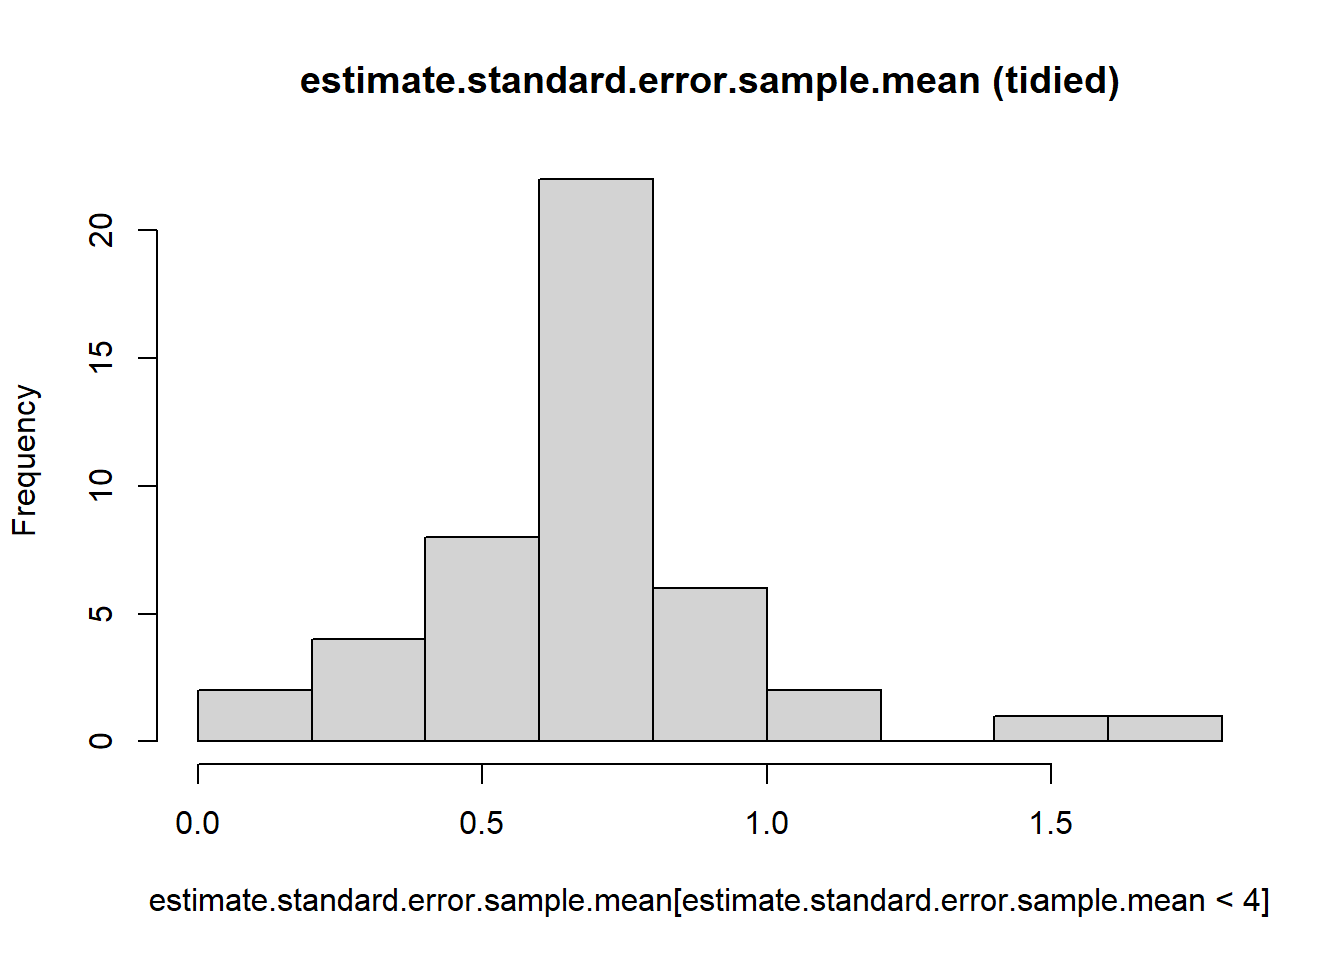
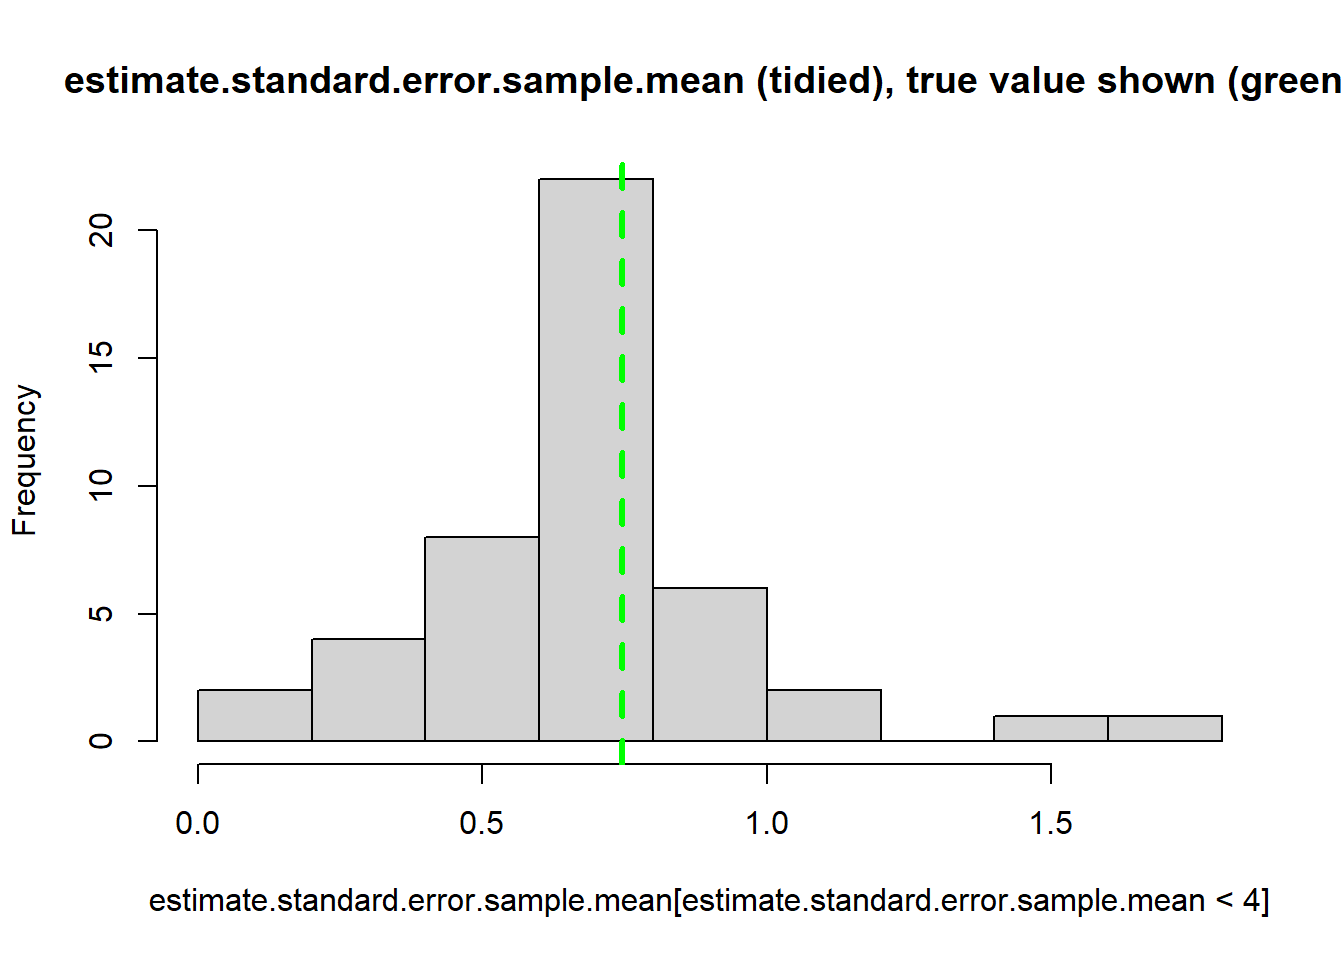
update

diff --git a/docs/S2SLecture4/docs/s2s03-activity-results.html b/docs/S2SLecture4/docs/s2s03-activity-results.html
@@ -190,7 +190,8 @@ code span.wa { color: #60a0b0; font-weight: bold; font-style: italic; } /* Warni
 <p><img src="_main_files/figure-html/unnamed-chunk-5-5.png" width="672" /></p>
 <div class="sourceCode" id="cb6"><pre class="sourceCode r"><code class="sourceCode r"><span id="cb6-1"><a href="s2s03-activity-results.html#cb6-1" tabindex="-1"></a><span class="fu">hist</span>(estimate.standard.error.sample.mean)</span></code></pre></div>
 <p><img src="_main_files/figure-html/unnamed-chunk-5-6.png" width="672" /></p>
-<div class="sourceCode" id="cb7"><pre class="sourceCode r"><code class="sourceCode r"><span id="cb7-1"><a href="s2s03-activity-results.html#cb7-1" tabindex="-1"></a><span class="fu">hist</span>(estimate.standard.error.sample.mean[estimate.standard.error.sample.mean<span class="sc">&lt;</span><span class="dv">4</span>],<span class="at">main=</span><span class="st">&quot;estimate.standard.error.sample.mean (tidied)&quot;</span>)</span></code></pre></div>
+<div class="sourceCode" id="cb7"><pre class="sourceCode r"><code class="sourceCode r"><span id="cb7-1"><a href="s2s03-activity-results.html#cb7-1" tabindex="-1"></a><span class="fu">hist</span>(estimate.standard.error.sample.mean[estimate.standard.error.sample.mean<span class="sc">&lt;</span><span class="dv">4</span>],<span class="at">main=</span><span class="st">&quot;estimate.standard.error.sample.mean (tidied), true value shown (green)&quot;</span>)</span>
+<span id="cb7-2"><a href="s2s03-activity-results.html#cb7-2" tabindex="-1"></a><span class="fu">abline</span>(<span class="at">v=</span>pop.sd<span class="sc">/</span><span class="fu">sqrt</span>(<span class="dv">10</span>), <span class="at">col=</span><span class="st">&quot;green&quot;</span>, <span class="at">lwd=</span><span class="dv">3</span>, <span class="at">lty=</span><span class="dv">2</span>)</span></code></pre></div>
 <p><img src="_main_files/figure-html/unnamed-chunk-5-7.png" width="672" /></p>
 
 </div>
